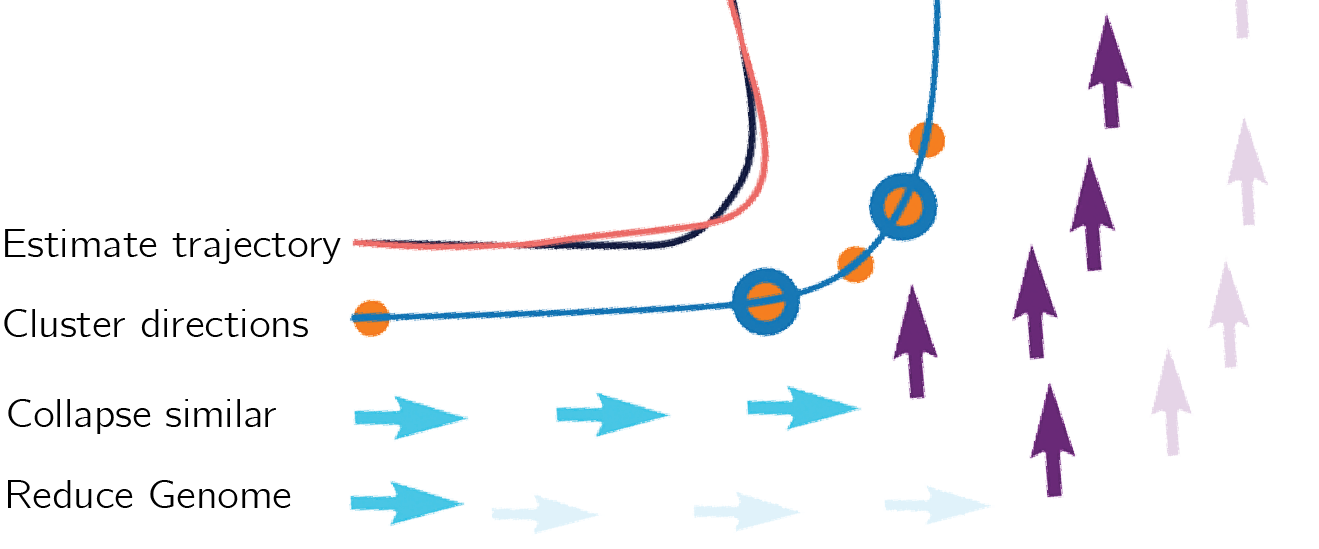
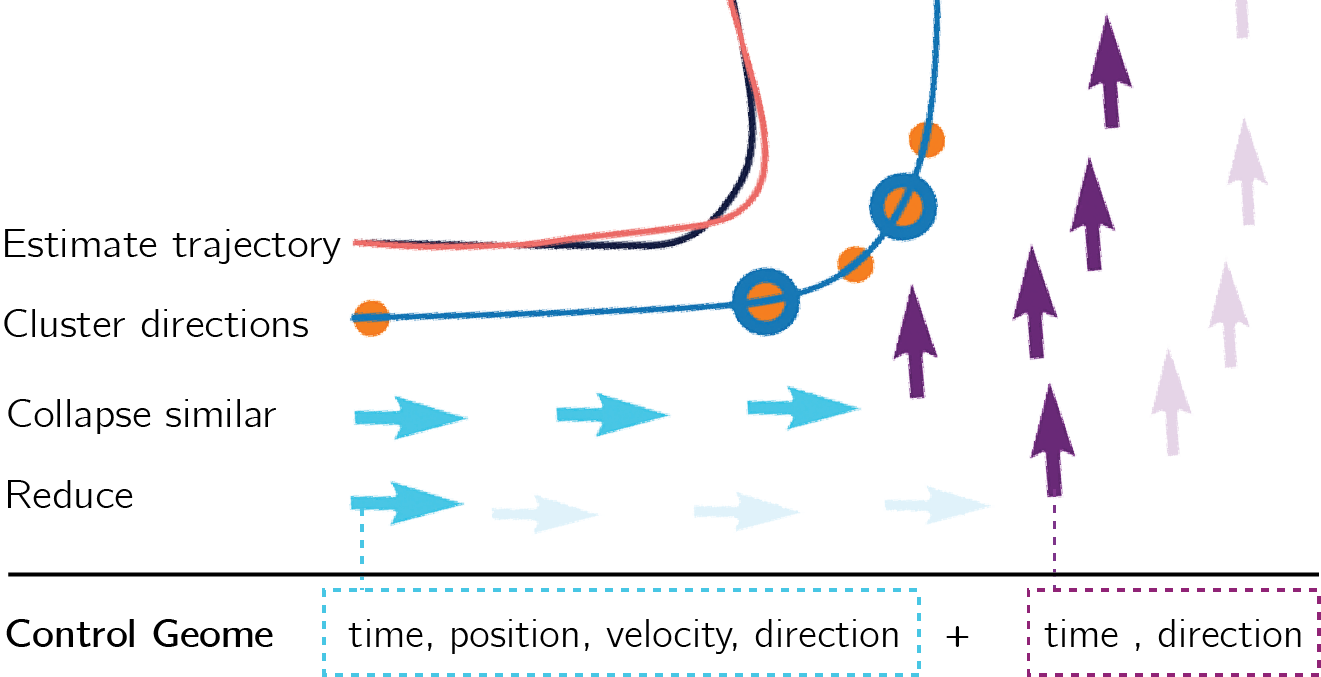
work

diff --git a/sections/results.tex b/sections/results.tex
@@ -32,19 +32,15 @@ To avoid sharp trajectory changes on foot contacts we apply a gaussian filter wi
 
 
 \subsection{Control Genome extraction and movement alignment}
-Our animations are based on dance cards with clearly defined regions and repeating straight-turning-straight segments. Turns are in the range from $0^o-180^o$ and we captured a variation of both walking and running from our 3 actors. The clear patterns makes it easy to extract reduced Control Genomes where an initial position and velocity pair is combined with a forward and turning control direction at two distinct time steps. We use an automated procedure to extract Control Genomes as illustrated in Fig.      
+Our animations are based on dance cards with clearly defined regions and repeating straight-turning-straight segments. Turns are in the range from $0^o-180^o$ and we captured a variation of both walking and running from our 3 actors. The clear patterns makes it easy to extract reduced control genomes where an initial position and velocity pair is combined with directions offset in time. Fig. \ref{fig:results:genome_extraction} illustrates how a control genome is extracted from a single left turn using a simple heuristic. If more complex animations are used we imagine that statistics of recorded stick movements during gameplay or manual annotation could be used to construct control genomes. 
 \begin{figure}
     \centering
     \includegraphics[width=1.0\columnwidth]{img/genome_extract.png}
     \caption{Control Genome is extracted from an animation where the actor runs forward then does a left turn and runs straight again. We extract an initial position, velocity and facing direction at the positions of the turquise arrow. And then control direction and time offsets at the position of the both the turquise aand purple arrow.}
     \label{fig:results:genome_extraction}
 \end{figure}
-After genome extraction we do alignment of almost straight section. If section are not straight artifacts are introduced (show whap happens if alignments are done directly on hips (remove details))
 
-
-\subsection{Movement Characteristics}
-\magnus{Control genomes are easy to deduce because we use dance card style animations. Usually move straight - perform singke change in direction - move straight. Natural to say that genome has three entries. Starten position/velocity and two directions}      
-\magnus{As control genomes approaches animation we end up getting a perfect fit. }
+After genome extraction we defined straight animation sections to begin when the animation velocity is parallel with the current control genome direction, and end when a new direction is encountered as previously described. Each straight segment is fitted to remove minor divergences from the straight line.
 % \begin{figure}
 %     \centering
 %     \includegraphics[width=1.0\columnwidth]{img/movement_stats.png}
@@ -71,73 +67,83 @@ After genome extraction we do alignment of almost straight section. If section a
 %     \caption{}
 %     \label{fig:results:trajectory_straight}
 % \end{figure}
-We detect foot contacts by manual tuning of threshold values for speed and height of the feet. In our experience globally valid thresholds are easily found, since only a single start-contact point is needed without great precision. Using the method previously described trajectories are estimated from the contacts. Fig. \ref{fig:results:trajectory_estimation} shows an example of an estimated trajectory using a right turn followed by a left turn. A global smoothing removes the step transitions especially visible in the velocity plot. Notice that this is unrelated to traditional hip smoothing which requires carefully tuned and modulating parameters as described in [??]. The straight walk in Fig. \ref{fig:results:trajectory_straight} still contains some walk cycle dependent artifacts using our method, but high frequency details are removed from direction and speed, which enables us to apply adjustment curves without masking away needed details. \magnus{oscillating effect can be minimized by adjusting uniformly over pairs of steps. Also double check if this is actually the case}
-
 \subsection{Movement Model Fitting}
-\subsubsection{Automated Control Genome extraction}
-Automated genome extraction is shown in Fig. \ref{fig:results:genome_extraction}.
-\subsubsection{Alignment}
-\subsubsection{Fitting}
+We performed local fittings on our animations using control genomes with 2-5 changes in direction. The optimization was performed using PyTorch and the Adagrad optimizer with a learning rate of 0.1. Convergence rates are shown in Fig. [??] and visual examples in Fig. \ref{fig:results:engine_view} and the supplied video material. Our model is able to reproduce relatively complex motion planning such as a gradual slow down in speed before starting to rotate during a $180^o$ turn and two phase accelerations during softer turns using only 17 adjustable parameters. 
 
-\subsection{Global Fitting}
 
+
+As more direction are added the error accumulates along the path, 
 \begin{figure}
     \centering
-    \includegraphics[width=1.0\columnwidth]{img/locomotion mode.png}
-    \caption{}
-    \label{fig:results:locomotion_mode}
+    \includegraphics[width=1.0\columnwidth]{img/engine_view.png}
+    \caption{OMG}
+    \label{fig:results:engine_view}
 \end{figure}
 
+% \subsubsection{Automated Control Genome extraction}
+% Automated genome extraction is shown in Fig. \ref{fig:results:genome_extraction}.
+% \subsubsection{Alignment}
+% \subsubsection{Fitting}
+
+% \subsection{Global Fitting}
+
+% \begin{figure}
+%     \centering
+%     \includegraphics[width=1.0\columnwidth]{img/locomotion mode.png}
+%     \caption{}
+%     \label{fig:results:locomotion_mode}
+% \end{figure}
 
 
-\section{Video Notes}
 
-\subsubsection{Purpose}
-Illustrate the problem we wish to solve using 1-2 video examples.
-\subsubsection{Content}
-Show that basic animations have complex root motions that are difficult to replicate using standard 'weak control signal' (splines, springs). 
-Show that trivial approaches (smoothing) does not solve problem in convincing way.
-\paragraph{Videos}
-\begin{itemize}
-    \item Show character moving straight and in curves. Trace complex root motion. Highlight the presence of both high and low frequency information in the plot.
-    \item Show character running straight with smoothed trajectory. Highlight problems. Show turning characters and illustrate how superficially 'identical' turns are actually very different.
-\end{itemize}
-\paragraph{Figures}
-\begin{itemize}
-    \item Plots of trajectory and weak control signal paths.
-    \item Plots of smoothing effects
-\end{itemize}
+% \section{Video Notes}
 
-\subsubsection{Draft}
-Final text
+% \subsubsection{Purpose}
+% Illustrate the problem we wish to solve using 1-2 video examples.
+% \subsubsection{Content}
+% Show that basic animations have complex root motions that are difficult to replicate using standard 'weak control signal' (splines, springs). 
+% Show that trivial approaches (smoothing) does not solve problem in convincing way.
+% \paragraph{Videos}
+% \begin{itemize}
+%     \item Show character moving straight and in curves. Trace complex root motion. Highlight the presence of both high and low frequency information in the plot.
+%     \item Show character running straight with smoothed trajectory. Highlight problems. Show turning characters and illustrate how superficially 'identical' turns are actually very different.
+% \end{itemize}
+% \paragraph{Figures}
+% \begin{itemize}
+%     \item Plots of trajectory and weak control signal paths.
+%     \item Plots of smoothing effects
+% \end{itemize}
 
-\subsection{Fitting Movement Model}
-\subsubsection{Purpose} Show that we are able to solve problem using 3-5 video examples (didactic).
-Show how various models can be fitted to data (that has itself been adjusted). 
-\begin{itemize}
-    \item Straight movement. Walk and run. 
-    \item Multiple straight movements. Walk and run. 
-    \item 180.
-    \item Multiple 180s.
-    \item Banking
-    \item Multiple banking
-    \item 45 turn
-    \item Multiple 45 turn
-    \item 90 turn
-    \item Multiple 90 turn
-    \item Mixed modes
-\end{itemize}
-Additionally we could look at animations published by ubisoft.\url{https://github.com/ubisoft/Ubisoft-LaForge-Animation-Dataset}
+% \subsubsection{Draft}
+% Final text
+
+% \subsection{Fitting Movement Model}
+% \subsubsection{Purpose} Show that we are able to solve problem using 3-5 video examples (didactic).
+% Show how various models can be fitted to data (that has itself been adjusted). 
+% \begin{itemize}
+%     \item Straight movement. Walk and run. 
+%     \item Multiple straight movements. Walk and run. 
+%     \item 180.
+%     \item Multiple 180s.
+%     \item Banking
+%     \item Multiple banking
+%     \item 45 turn
+%     \item Multiple 45 turn
+%     \item 90 turn
+%     \item Multiple 90 turn
+%     \item Mixed modes
+% \end{itemize}
+% Additionally we could look at animations published by ubisoft.\url{https://github.com/ubisoft/Ubisoft-LaForge-Animation-Dataset}
 
 
-\subsection{Global Fitting}
+% \subsection{Global Fitting}
 
-\subsection{Application}
-\subsubsection{Purpose} Show that our solution has interesting applications using 3-5 video examples (eye candy).
-Replace standard control signal with our model.
-\begin{itemize}
-    \item{Replay animations to illustrate correct root motion}
-    \item{Use with motion matching} exponential decay = uttner, Holden Spring damper Kermse 2004].
-    \item{use generative neural network} Can we avoid floating character ?
-\end{itemize}
+% \subsection{Application}
+% \subsubsection{Purpose} Show that our solution has interesting applications using 3-5 video examples (eye candy).
+% Replace standard control signal with our model.
+% \begin{itemize}
+%     \item{Replay animations to illustrate correct root motion}
+%     \item{Use with motion matching} exponential decay = uttner, Holden Spring damper Kermse 2004].
+%     \item{use generative neural network} Can we avoid floating character ?
+% \end{itemize}
 

diff --git a/sections/related_work.tex b/sections/related_work.tex
@@ -1,5 +1,16 @@
 \section{Related work}
 
+Weak Control Signals
+
+Control Theory
+
+Function approximations 
+    RBF, movement primitives
+
+Motion planning
+    Robotics
+    Graph based stuff
+
 \kenny{what is state of the art work to compare against?}
 
 
